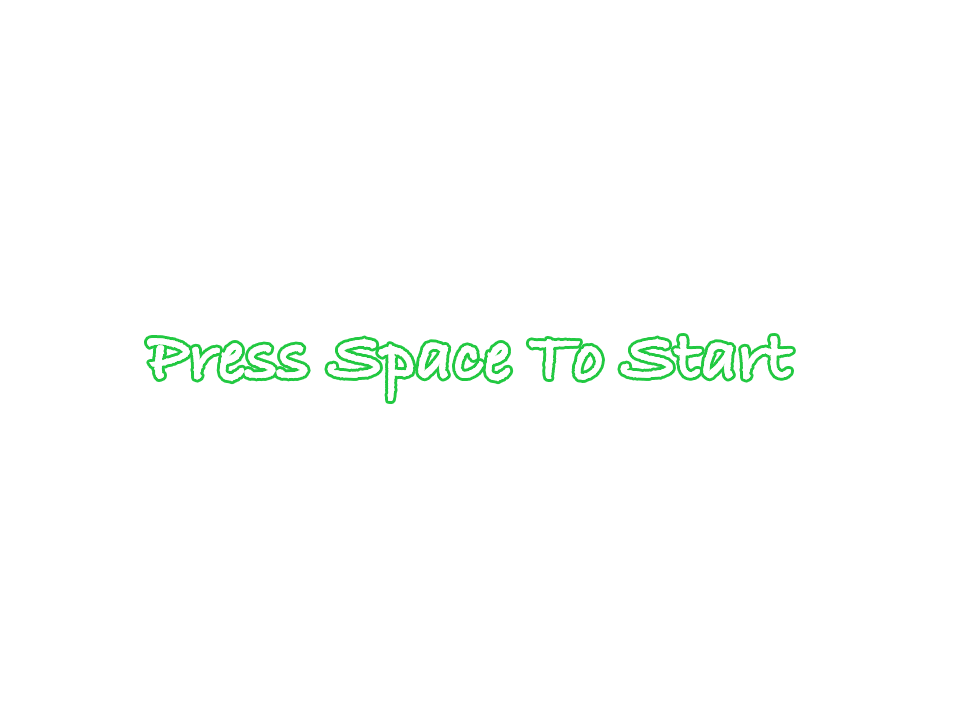
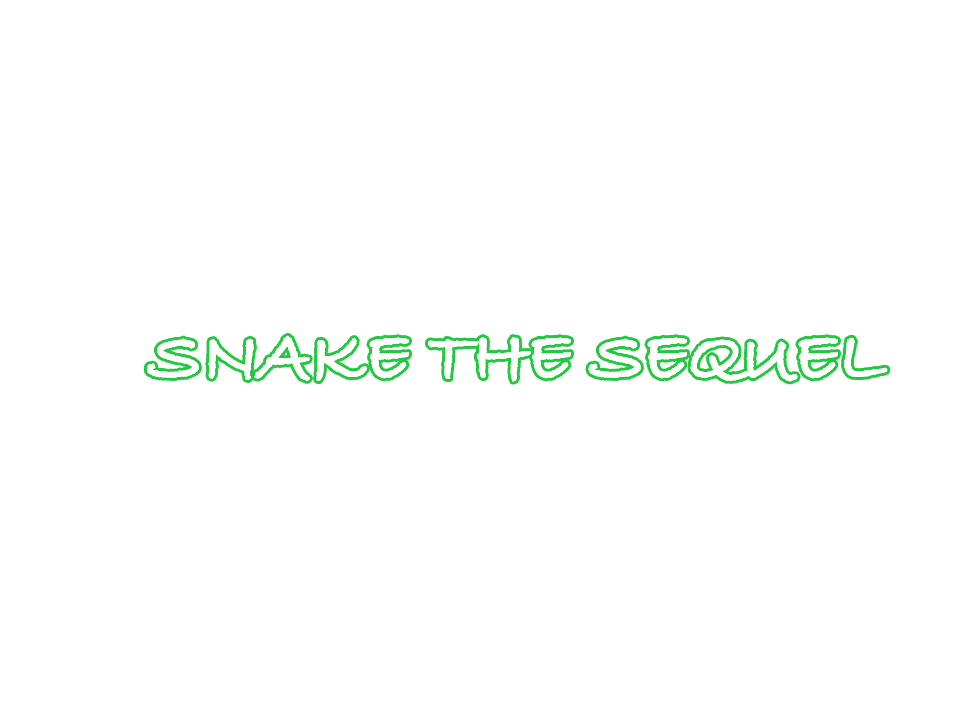
updated menu scene

Changed region(s): [[0.1562, 0.4583, 0.9375, 0.55]]

diff --git a/src/scripts/Scenes/MenuScene.js b/src/scripts/Scenes/MenuScene.js
@@ -15,7 +15,7 @@ export default class GameScene extends Phaser.Scene {
   }
 
   create() {
-    this.add.image(this.game.config.width / 2, this.game.config.height / 2, 'menu-scene-text');
+    this.add.image((this.game.config.width / 2) - 40, this.game.config.height / 2, 'menu-scene-text');
 
     WebFont.load({
       custom: {
@@ -26,7 +26,7 @@ export default class GameScene extends Phaser.Scene {
           .text(
             this.game.config.width / 2,
             this.game.config.height * (2 / 3),
-            'You can change me in MenuScene.js',
+            'Press Space To Start',
             {
               fontFamily: 'Space Mono',
               fontSize: '32px',

diff --git a/src/scripts/main.js b/src/scripts/main.js
@@ -13,7 +13,7 @@ const config = {
     default: 'arcade',
     arcade: {
       gravity: {
-        y: 1000,
+        y: 0,
       },
       debug: false,
     },

diff --git a/src/scripts/constants.js b/src/scripts/constants.js
@@ -1,5 +1,8 @@
 const colors = {
   white: '#ffffff',
+  corn: '#FCEC52',
+  tealblue: '#3B7080',
+  huntergreen: '#3A5743'
 };
 
 export { colors };
